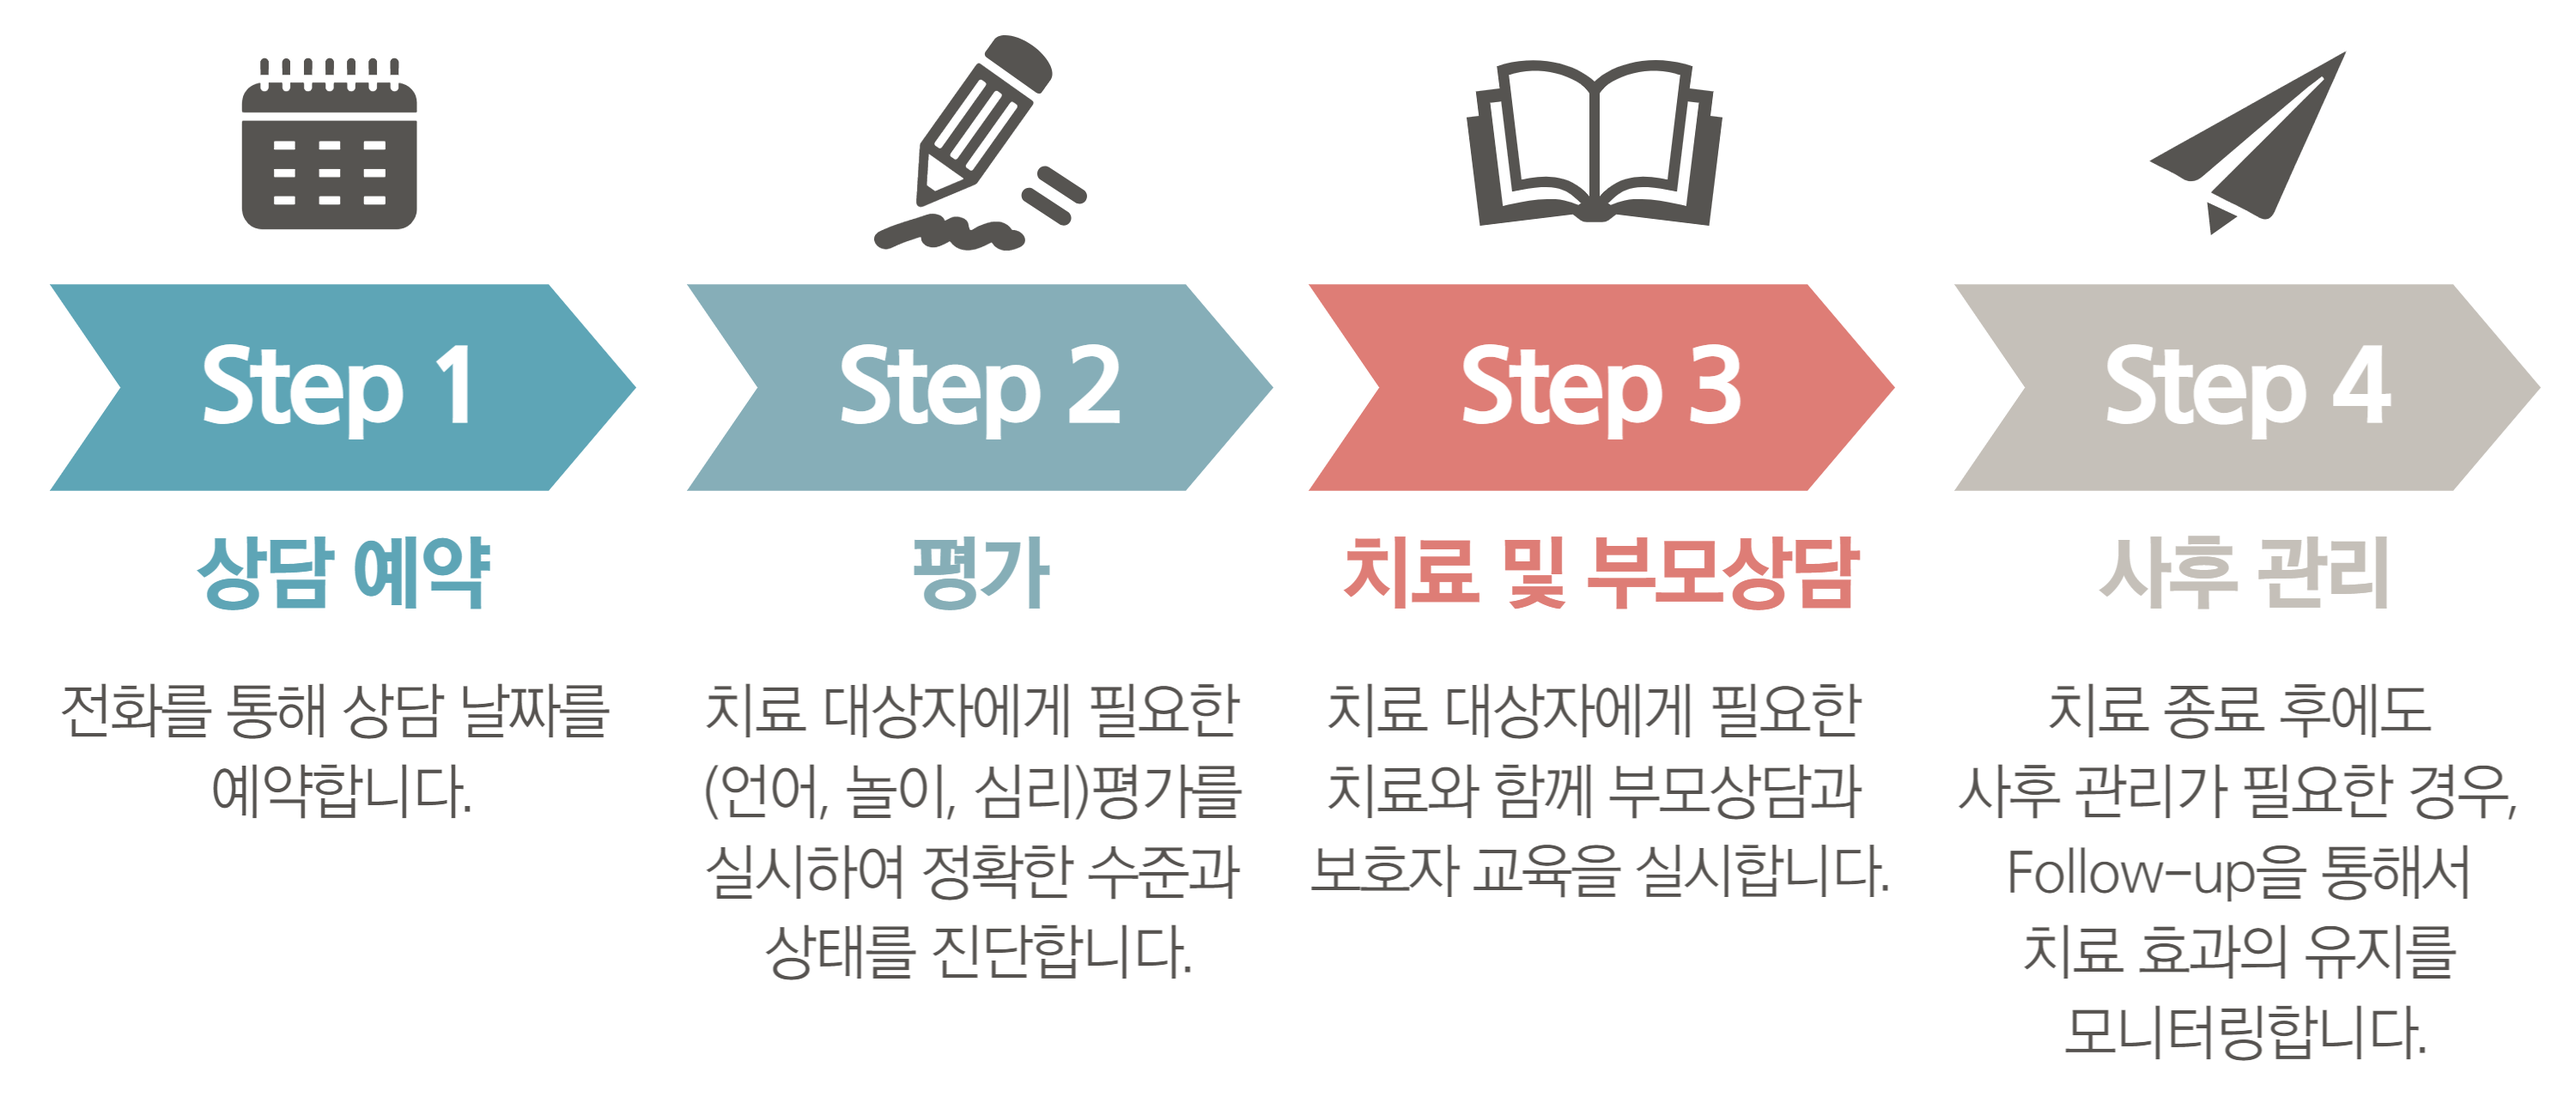
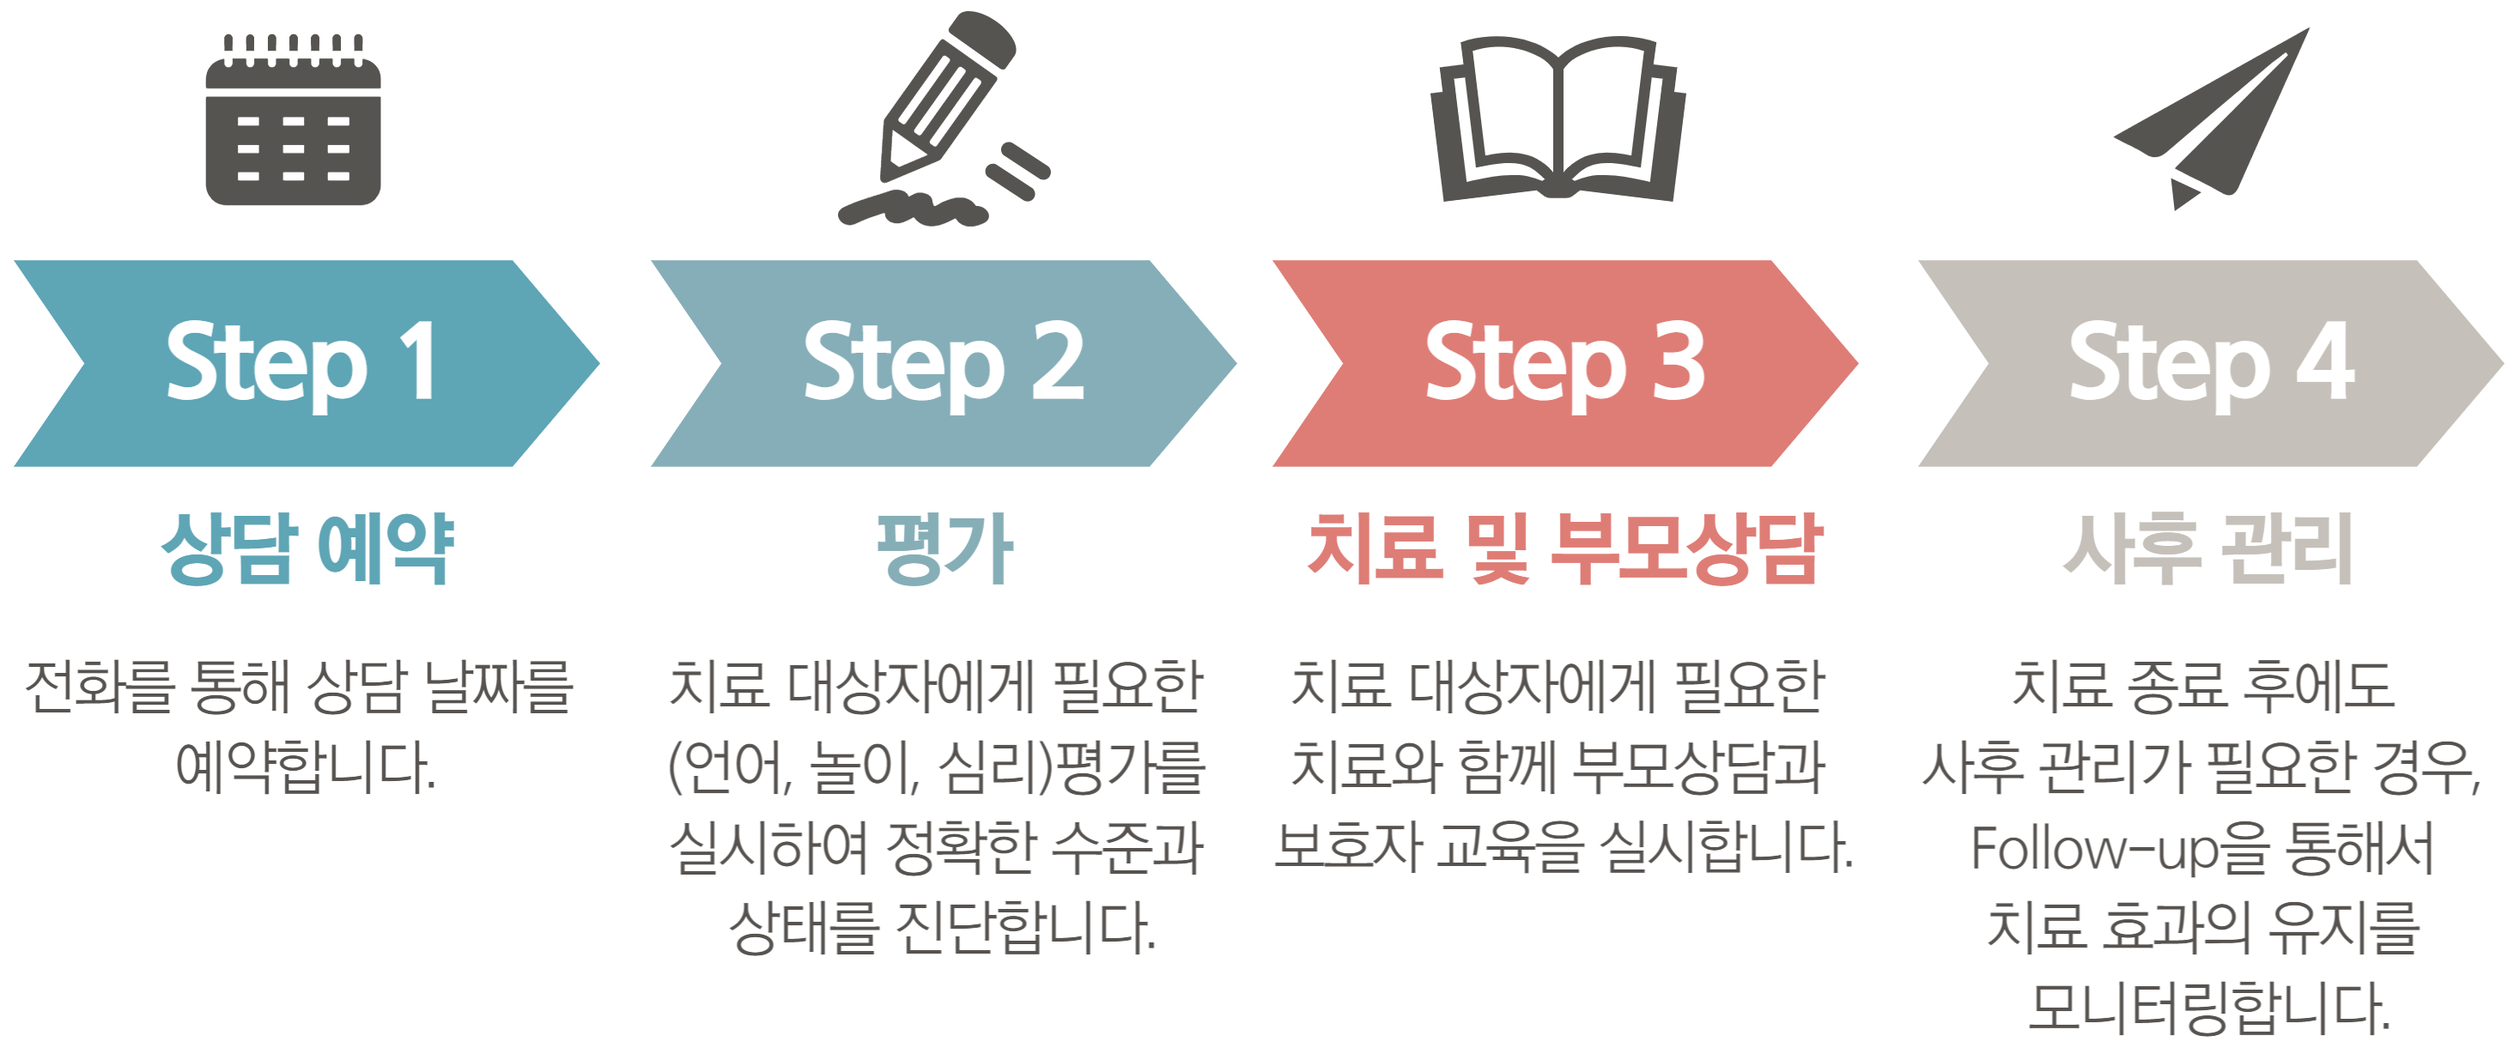
추가

diff --git a/src/component/ProgramPlay.jsx b/src/component/ProgramPlay.jsx
@@ -693,7 +693,7 @@ export default function History() {
                           <Card.Header
                             className="p-1"
                             style={{
-                              backgroundColor: "rgb(248, 208, 99, 0.5)",
+                              backgroundColor: "rgb(13, 77, 5, 0.1)",
                             }}
                           >
                             <Card.Title>놀이 평가</Card.Title>
@@ -743,7 +743,7 @@ export default function History() {
                           <Card.Header
                             className="p-1"
                             style={{
-                              backgroundColor: "rgb(248, 208, 99, 0.5)",
+                              backgroundColor: "rgb(13, 77, 5, 0.1)",
                             }}
                           >
                             <Card.Title>발달 평가</Card.Title>
@@ -794,7 +794,7 @@ export default function History() {
                           <Card.Header
                             className="p-1"
                             style={{
-                              backgroundColor: "rgb(248, 208, 99, 0.5)",
+                              backgroundColor: "rgb(13, 77, 5, 0.1)",
                             }}
                           >
                             <Card.Title>부모 및 가족평가</Card.Title>

diff --git a/hosting_index.html b/hosting_index.html
@@ -1,0 +1,12 @@
+<?
+    $hostname = exec("/home/bin/hostname");
+?>
+<html>
+<head>
+<meta http-equiv="Content-Type" content="text/html; charset=utf-8">
+<title>대한민국 No.1 카페24 호스팅</title>
+</head>
+<body>
+<iframe frameborder=0 scrolling=no marginwidth=0 marginheight=0 width=100% height=100%  src="//hostinfo.cafe24.com/index.php?hostname=<?=$hostname;?>"></iframe>
+</body>
+</html>

diff --git a/src/component/Step.jsx b/src/component/Step.jsx
@@ -12,7 +12,7 @@ export default function VerticalLinearStepper() {
             <Card.Header className="h2">치료 과정</Card.Header>
             <Card.Body>
               <img
-                className="p-3"
+                className="p-1"
                 alt="information_step"
                 src="/img/process_006.png"
                 width={"100%"}
